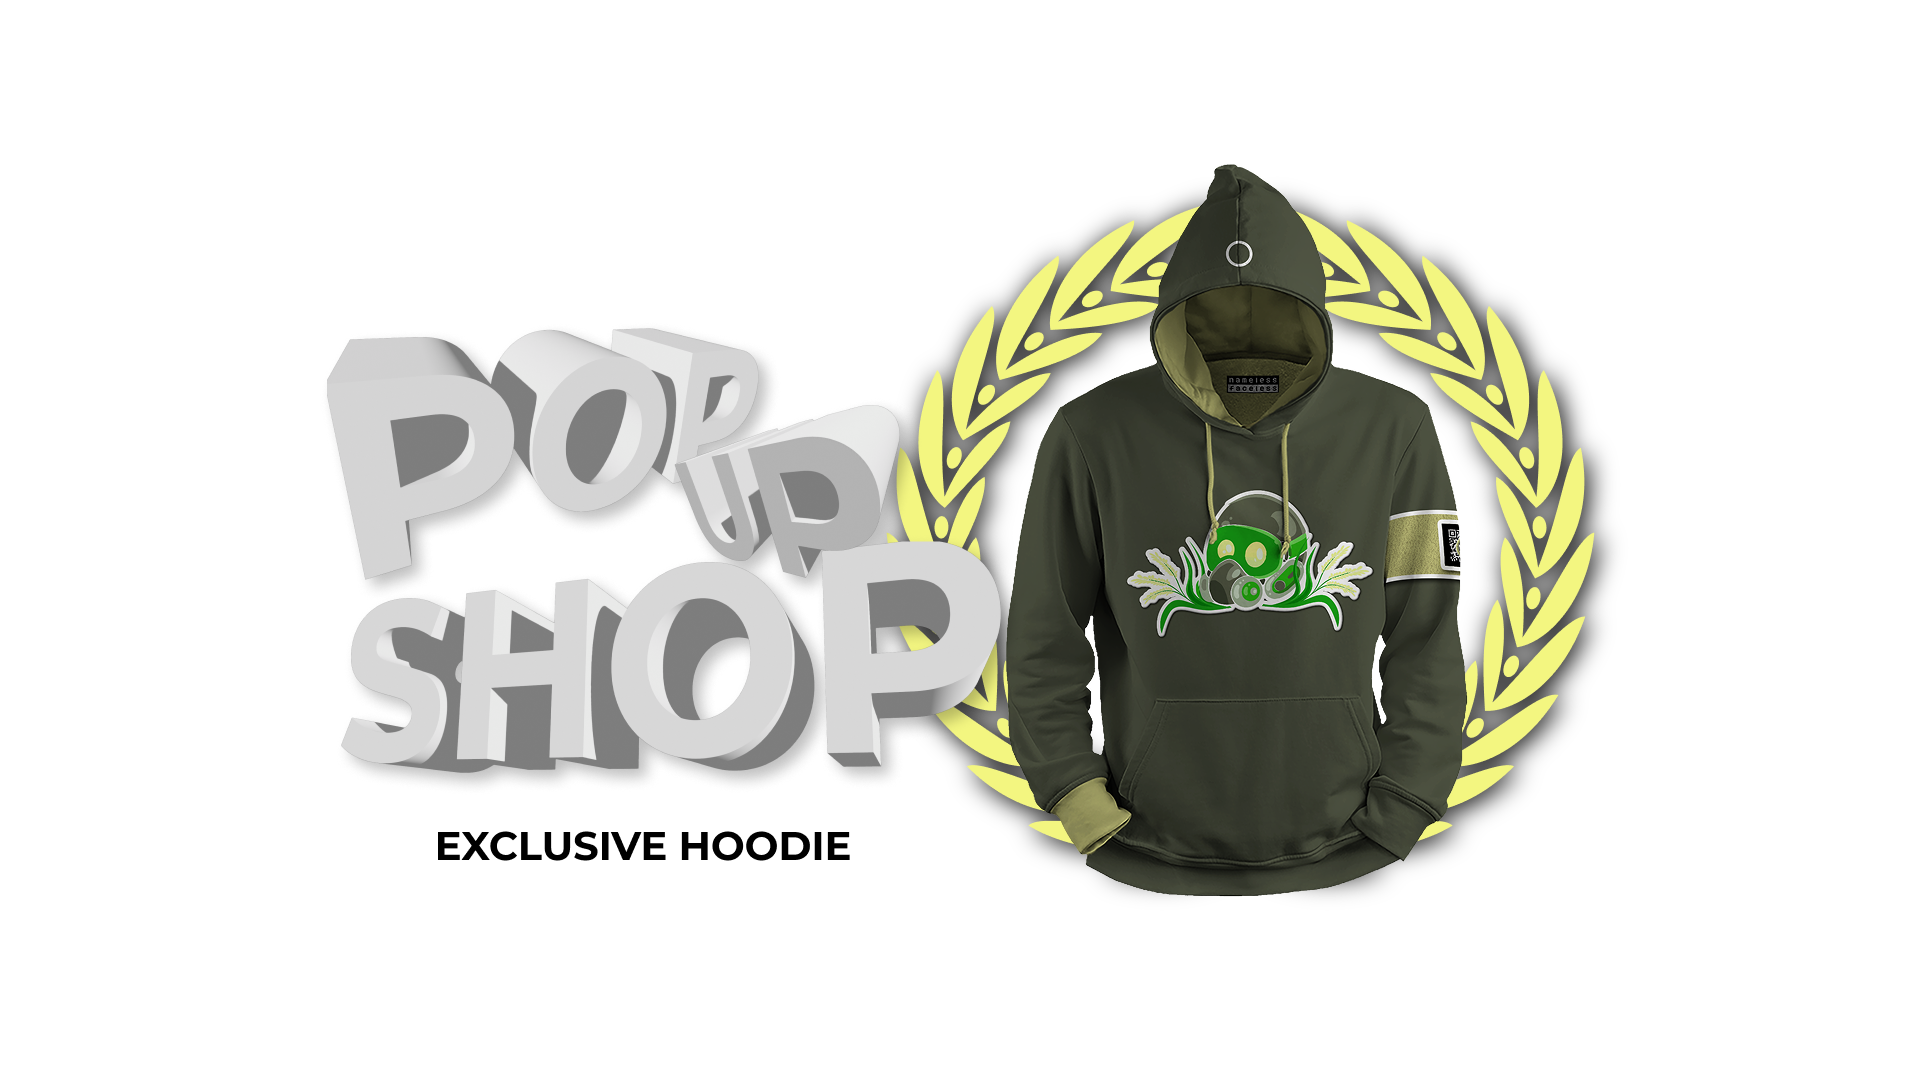
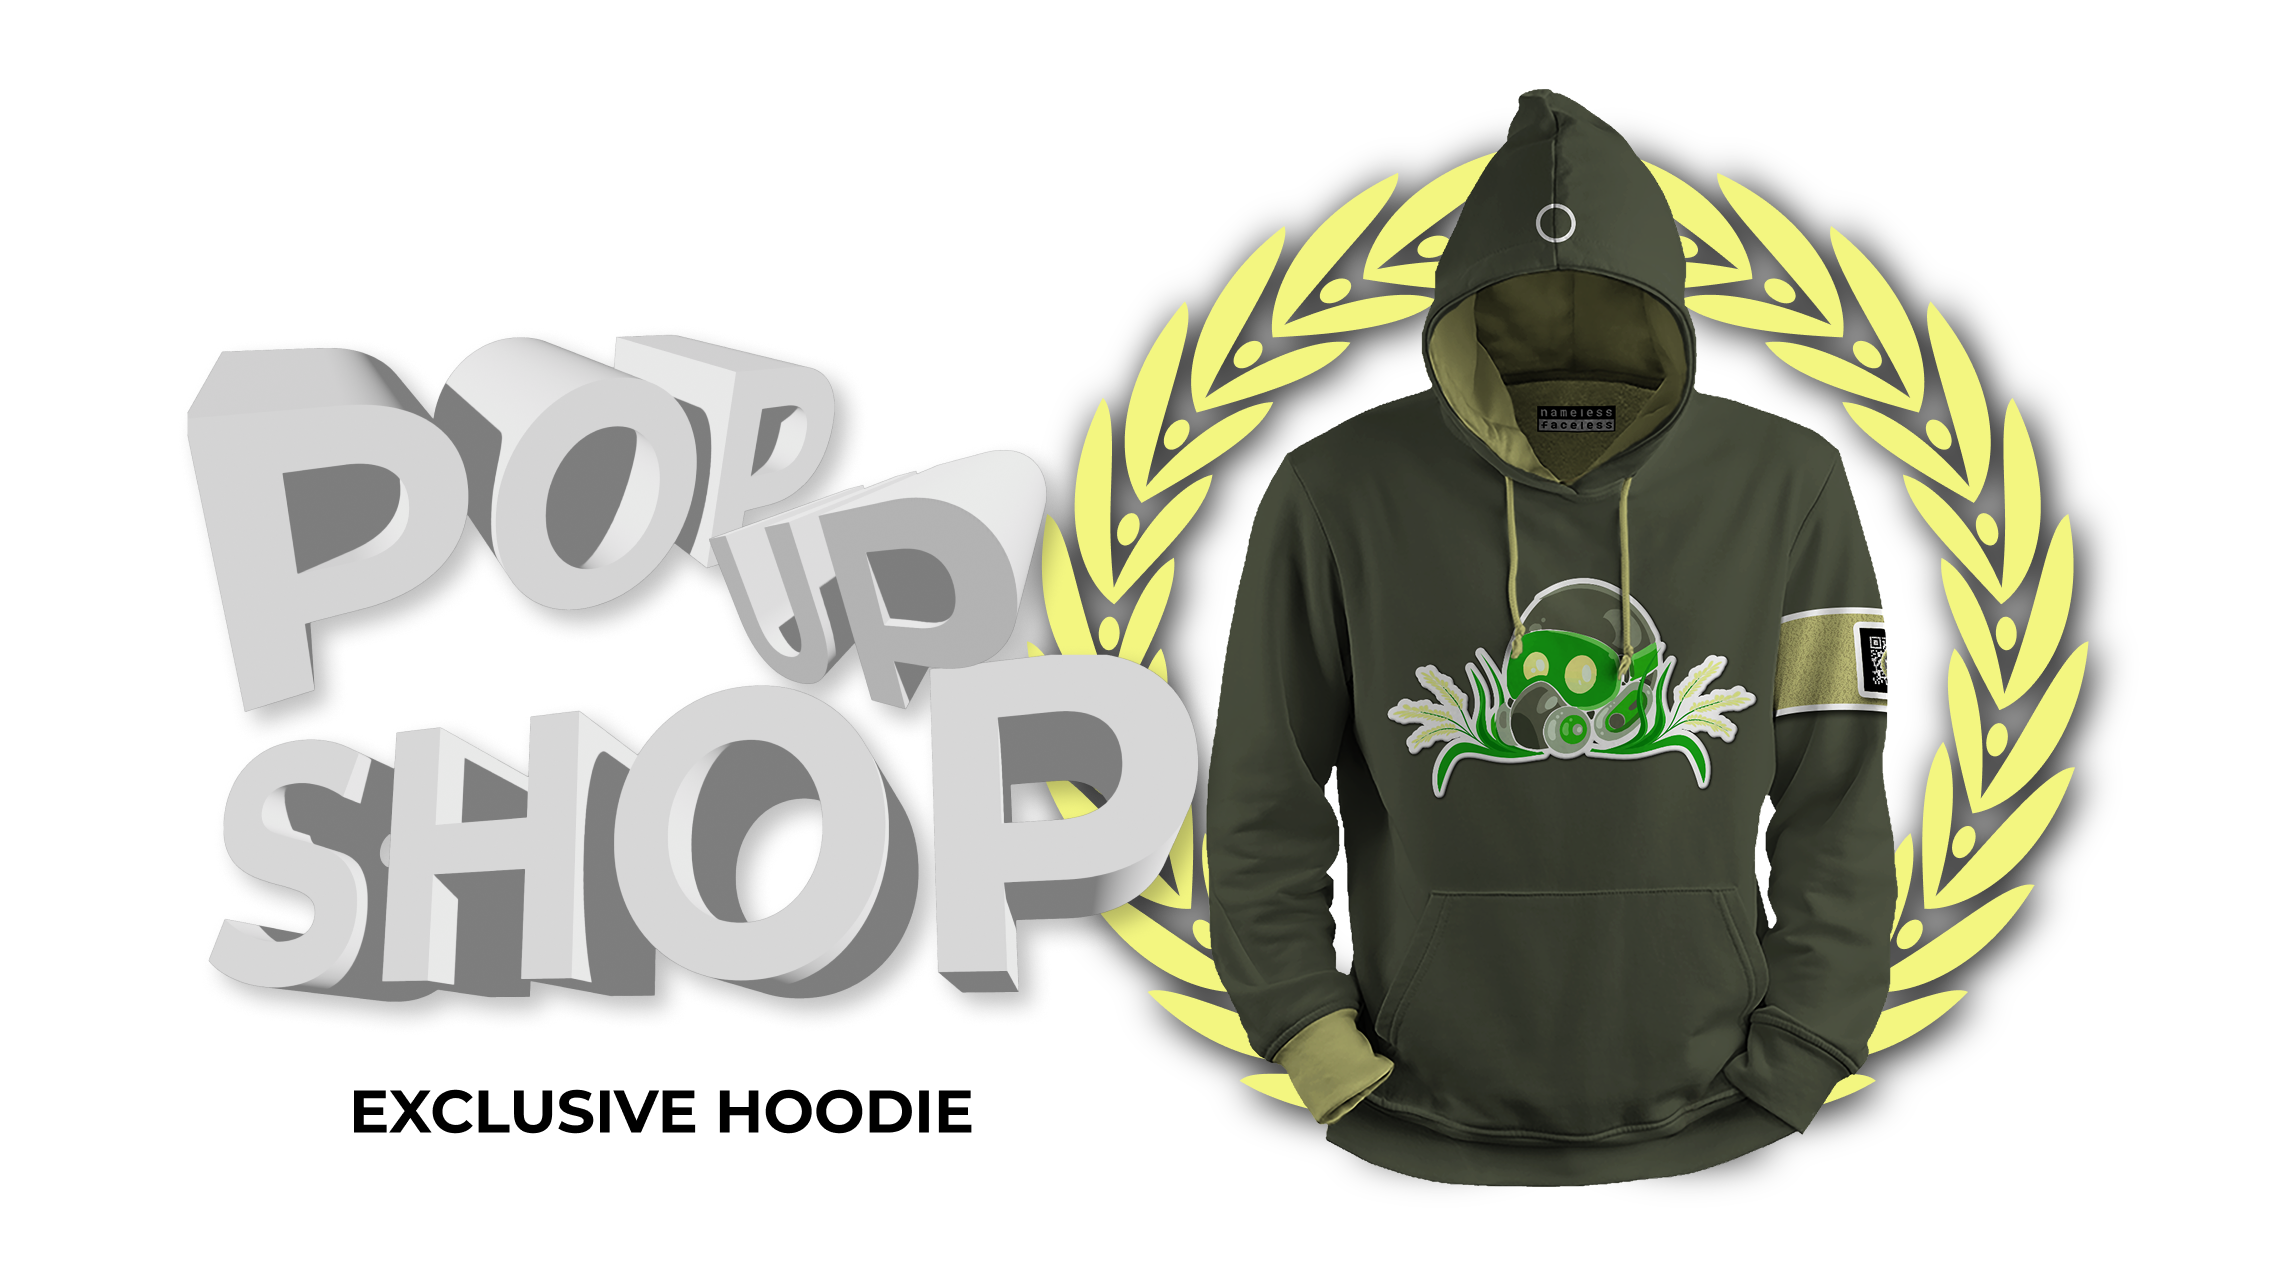
Update

diff --git a/css/style.css b/css/style.css
@@ -239,7 +239,7 @@ p {
 .img_single--transparent {
   width: 50vw;
   display: block;
-  margin: -2rem auto 2rem auto;
+  margin: 0rem auto 2rem auto;
   overflow: hidden;
   text-align: center;
 }
